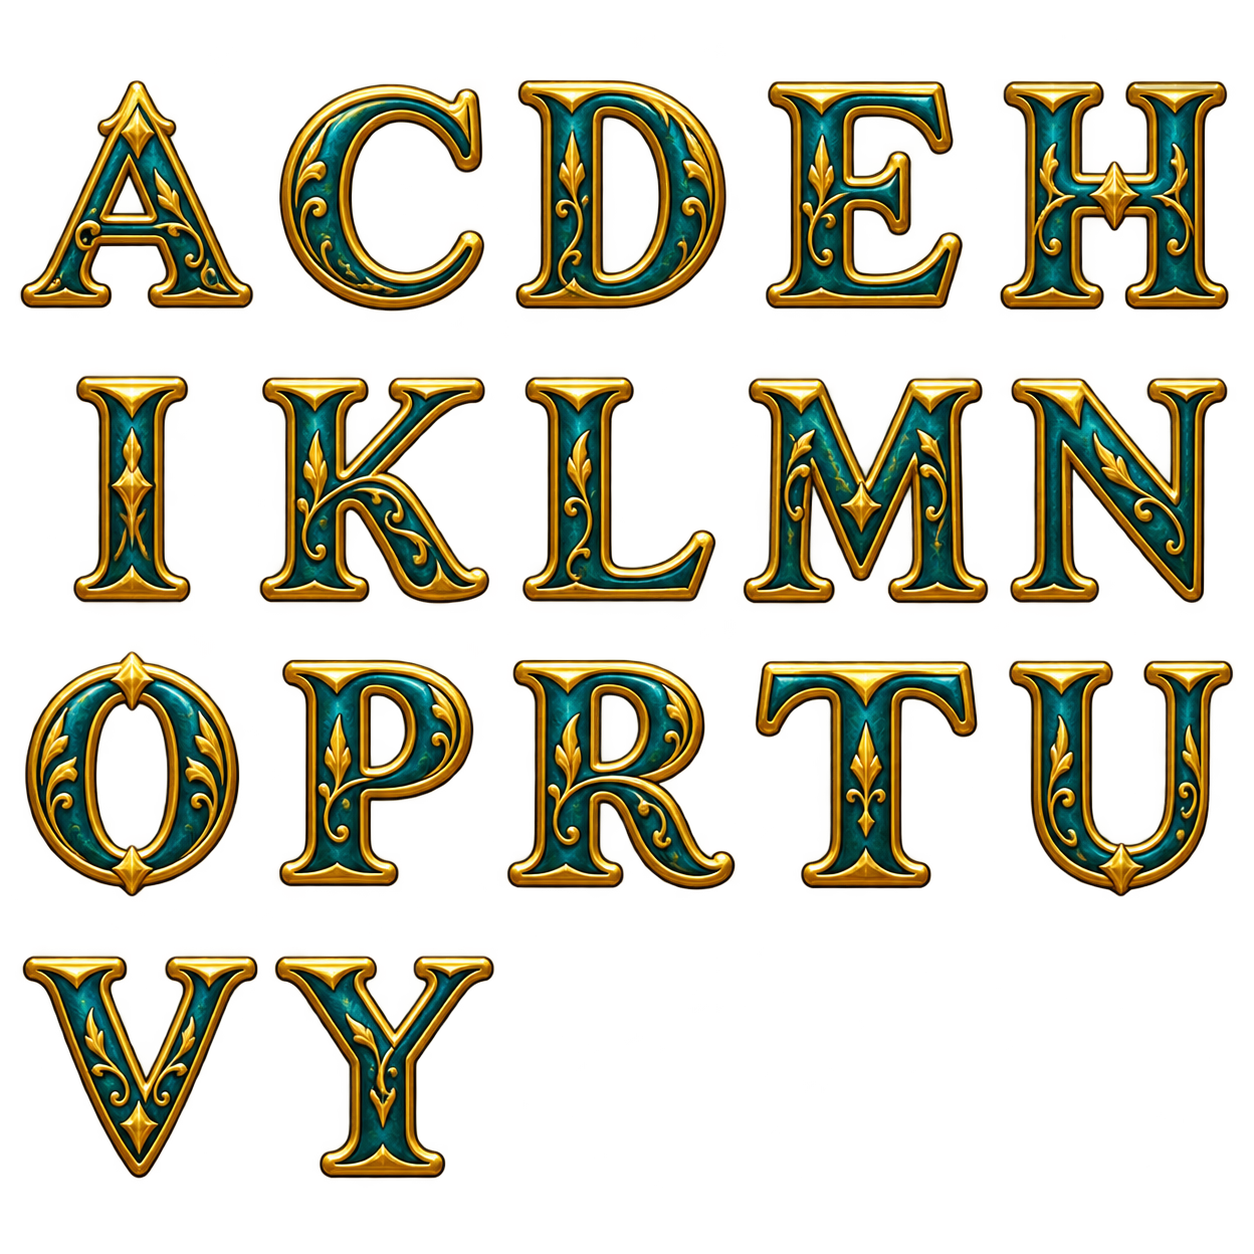
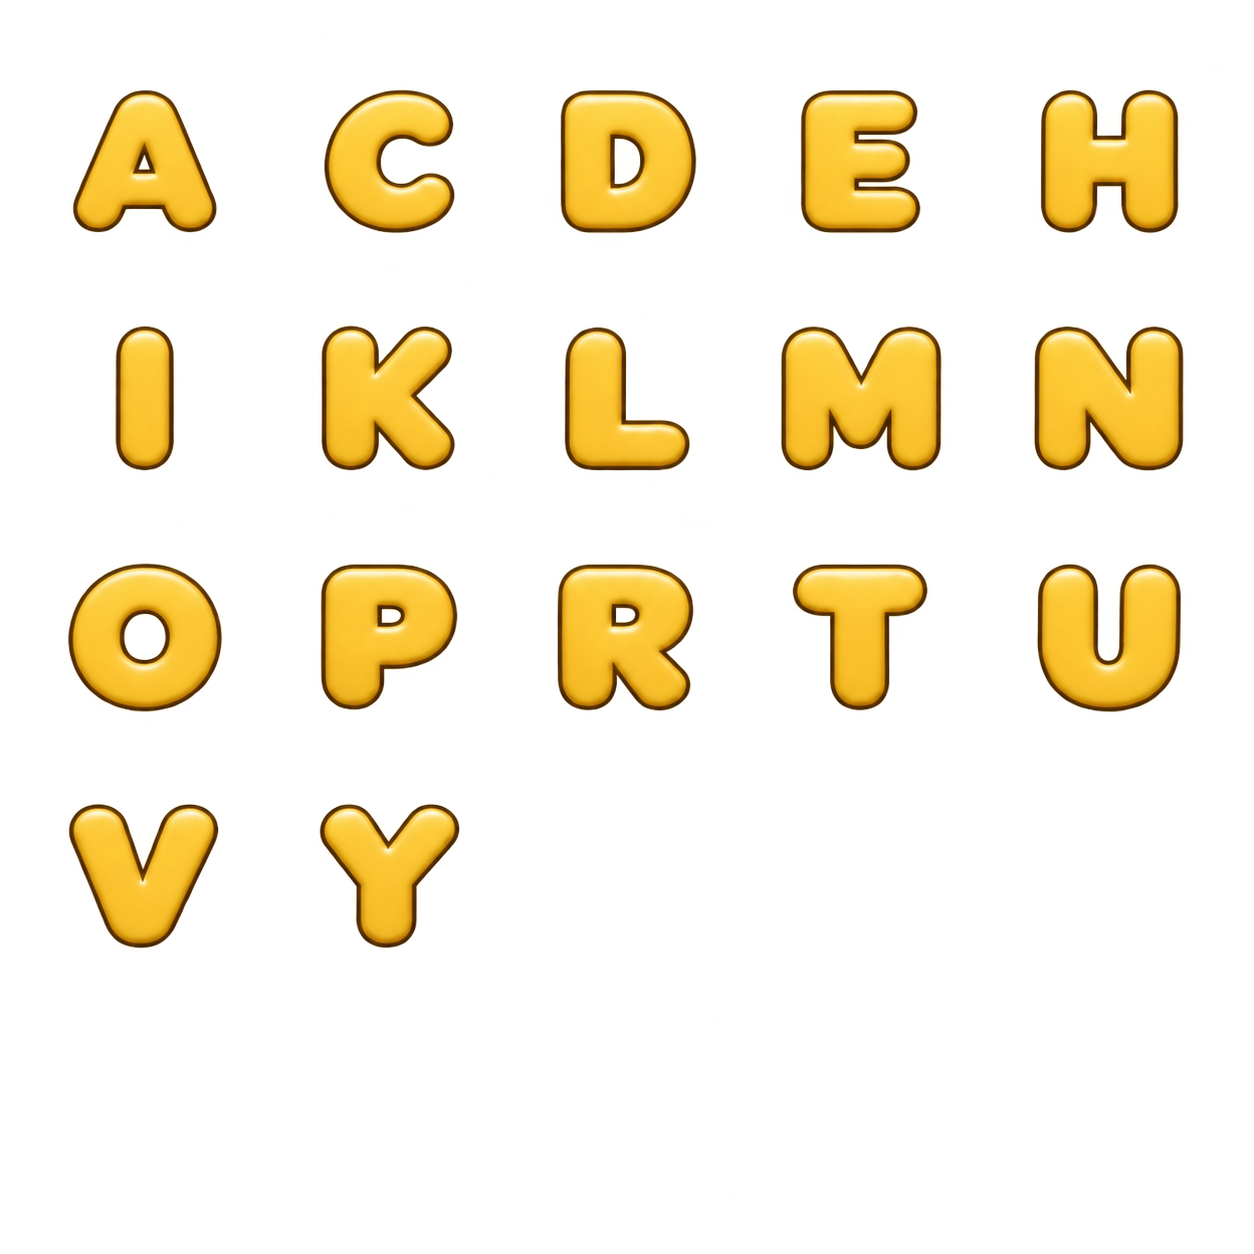
feat(letters): replace ornate glyphs with readable rounded gold artwork

diff --git a/styles/liveops.css b/styles/liveops.css
@@ -206,7 +206,7 @@ html .liveops-page .liveops-surface .tab-button.liveops__wheel-info { position:a
 html .liveops-page .liveops-surface .liveops__set-choices button { flex:0 0 auto; width:auto; min-height:36px; margin:0; padding:6px 8px; border-radius:8px; font-size:10px; white-space:nowrap; }
 html .liveops-page .liveops-surface .liveops__set-choices button[aria-pressed="true"] { color:var(--lo-claim-ink); text-shadow:none; background:linear-gradient(var(--lo-claim-top),var(--lo-claim-bottom)); }
 .liveops-surface .liveops__letter-slots { display:flex; justify-content:center; gap:3px; margin:8px 0 12px; font-size:clamp(13px,3.9vw,22px); }
-.liveops-surface .liveops__letter-slot { display:grid; place-items:center; width:1.55em; min-width:1.55em; height:1.55em; padding:0; border:0; border-radius:0; background:transparent; box-shadow:none; opacity:.3; filter:grayscale(.7); }
+.liveops-surface .liveops__letter-slot { display:grid; place-items:center; width:1.55em; min-width:1.55em; height:1.55em; padding:0; border:0; border-radius:0; background:transparent; box-shadow:none; opacity:.62; filter:grayscale(1); }
 .liveops-surface .liveops__letter-slot[data-filled="true"] { background:transparent; box-shadow:none; opacity:1; filter:none; }
 .liveops-surface .liveops__letter-slot[data-space="true"] { flex-basis:100%; height:0; min-width:0; border:0; box-shadow:none; }
 .liveops-surface .liveops__letter-mini .liveops__letter-slots { flex-wrap:nowrap; gap:1px; margin:0; }
@@ -215,7 +215,7 @@ html .liveops-page .liveops-surface .liveops__set-choices button[aria-pressed="t
 .liveops__inventory > h3 { margin:0 0 8px; text-align:center; font-size:15px; color:var(--lo-gold); }
 html .liveops-page .liveops-surface .liveops__letter-grid > button.tab-button { position:relative; display:grid; grid-template-columns:minmax(0,1fr); place-items:center; aspect-ratio:1; min-width:0; min-height:44px; padding:2px; border:2px solid var(--lo-task-line); border-radius:8px; background:linear-gradient(145deg,var(--lo-task),color-mix(in srgb,var(--lo-task) 74%,var(--lo-line))); color:var(--lo-task-ink); text-shadow:0 1px #fff8; box-shadow:inset 0 0 0 2px #fff3,0 2px 0 #0004; }
 html .liveops-page .liveops-surface .liveops__letter-grid > button[aria-pressed='true'] { outline:2px solid var(--lo-gold); outline-offset:1px; }
-.liveops__letter-art { display:block; width:100%; height:100%; background-image:image-set('/assets/rewards/letters/letters-128.webp' 1x,'/assets/rewards/letters/letters-256.webp' 2x); background-size:500% 400%; background-repeat:no-repeat; }
+.liveops__letter-art { display:block; width:100%; height:100%; background-image:image-set('/assets/rewards/letters/letters-v2-128.webp' 1x,'/assets/rewards/letters/letters-v2-256.webp' 2x); background-size:500% 400%; background-repeat:no-repeat; }
 .liveops__letter-glyph { width:32px; min-width:0; max-width:100%; height:auto; aspect-ratio:1; }
 .liveops > [hidden] { display:none; }
 .liveops__letter-count { position:absolute; bottom:-2px; right:-2px; padding:0 4px; border:1px solid var(--lo-line); border-radius:10px; background:var(--lo-inset); color:var(--lo-ink); font-size:11px; text-shadow:none; }

diff --git a/tests/ui/letter-art-coin-count.spec.js b/tests/ui/letter-art-coin-count.spec.js
@@ -12,7 +12,7 @@ test('wheel and letters have no redundant links; inventory and recipes use the g
    }
    const sprites=await page.locator('.liveops__letter-grid .liveops__letter-art').evaluateAll(async ns=>{
     const {LETTER_ALPHABET}=await import('/js/liveops/config.js');return ns.map((n,i)=>({background:getComputedStyle(n).backgroundImage,position:n.style.backgroundPosition,expected:`${i%5*25}% ${Math.floor(i/5)*100/3}%`,name:n.parentElement.getAttribute('aria-label'),letter:LETTER_ALPHABET[i],width:n.getBoundingClientRect().width,parent:n.parentElement.getBoundingClientRect().width}));
-   });expect(sprites).toHaveLength(17);for(const sprite of sprites){expect(sprite.background).toContain('/assets/rewards/letters/letters-128.webp');sprite.position.split(' ').forEach((n,i)=>expect(parseFloat(n)).toBeCloseTo(parseFloat(sprite.expected.split(' ')[i]),3));expect(sprite.name).toContain(`Chữ ${sprite.letter},`);expect(sprite.width).toBeLessThan(sprite.parent);}
+   });expect(sprites).toHaveLength(17);for(const sprite of sprites){expect(sprite.background).toContain('/assets/rewards/letters/letters-v2-128.webp');sprite.position.split(' ').forEach((n,i)=>expect(parseFloat(n)).toBeCloseTo(parseFloat(sprite.expected.split(' ')[i]),3));expect(sprite.name).toContain(`Chữ ${sprite.letter},`);expect(sprite.width).toBeLessThan(sprite.parent);}
    for(const label of ['MEMORY MATCH','LINK CONNECT','TRIPLE CONNECT','ADVENTURE']){await page.getByRole('tab',{name:label,exact:true}).click();await expect(page.locator('.liveops__recipe-word .liveops__letter-art')).toHaveCount(label.replaceAll(' ','').length);await expect(page.locator('.liveops__recipe-reward .liveops__chest-art')).toHaveCount(1);
     const row=await page.locator('.liveops__recipe-word .liveops__letter-art').evaluateAll(ns=>ns.map(n=>{const r=n.getBoundingClientRect();return {top:r.top,left:r.left,right:r.right};}));expect(new Set(row.map(r=>Math.round(r.top))).size).toBe(1);expect(row[0].left).toBeGreaterThanOrEqual(0);expect(row.at(-1).right).toBeLessThanOrEqual(viewport.width);await expect(page.locator('.liveops__recipe progress')).toHaveCount(0);
    }

diff --git a/styles/letter-drop-feedback.css b/styles/letter-drop-feedback.css
@@ -1,5 +1,5 @@
 .letter-drop-feedback { --letter-center-size: clamp(56px, 17vw, 80px); position: fixed; inset: 0; z-index: 1250; pointer-events: none; contain: layout style; }
 .letter-drop-feedback__entry { position: absolute; left: calc(50% + var(--letter-slot) * (var(--letter-center-size) + 4px)); top: 40%; width: var(--letter-center-size); transform: translate(-50%, -50%); text-align: center; pointer-events: none; }
-.letter-drop-feedback__sprite { display: block; width: var(--letter-center-size); height: var(--letter-center-size); background-image: image-set('/assets/rewards/letters/letters-128.webp' 1x, '/assets/rewards/letters/letters-256.webp' 2x); background-size: 500% 400%; background-repeat: no-repeat; }
+.letter-drop-feedback__sprite { display: block; width: var(--letter-center-size); height: var(--letter-center-size); background-image: image-set('/assets/rewards/letters/letters-v2-128.webp' 1x, '/assets/rewards/letters/letters-v2-256.webp' 2x); background-size: 500% 400%; background-repeat: no-repeat; }
 .letter-drop-feedback__label { position: absolute; bottom: calc(100% + 4px); left: 0; width: 100%; box-sizing: border-box; padding: 3px 4px; border-radius: 6px; color: #fff7db; background: #082e36ed; font-size: 11px; font-weight: 700; line-height: 1.35; }
 @media (prefers-reduced-motion: reduce) { .letter-drop-feedback__sprite { transform: none; } }

diff --git a/styles/liveops-reward-feedback.css b/styles/liveops-reward-feedback.css
@@ -2,5 +2,5 @@
 .liveops-reward-feedback__particle { position:absolute; left:0; top:0; width:36px; height:36px; color:var(--lo-gold,var(--ui-gold)); will-change:transform,opacity; }
 .liveops-reward-feedback__particle > .ui-icon { width:100%; height:100%; }
 .liveops-reward-feedback__particle > img { display:block; width:100%; height:100%; object-fit:contain; }
-.liveops-reward-feedback__letter { display:block; width:100%; height:100%; background-image:image-set('/assets/rewards/letters/letters-128.webp' 1x,'/assets/rewards/letters/letters-256.webp' 2x); background-size:500% 400%; background-repeat:no-repeat; }
+.liveops-reward-feedback__letter { display:block; width:100%; height:100%; background-image:image-set('/assets/rewards/letters/letters-v2-128.webp' 1x,'/assets/rewards/letters/letters-v2-256.webp' 2x); background-size:500% 400%; background-repeat:no-repeat; }
 .liveops-reward-feedback__toast { position:absolute; left:50%; top:50%; transform:translate(-50%,-50%); box-sizing:border-box; max-width:calc(100vw - 24px); width:max-content; padding:10px 16px; border:1px solid var(--lo-line,var(--ui-line)); border-radius:12px; background:var(--lo-panel,var(--ui-surface)); color:var(--lo-ink,var(--ui-ink)); box-shadow:0 3px 12px #0003; font-size:12px; font-weight:700; line-height:1.4; white-space:nowrap; text-overflow:ellipsis; overflow:hidden; }

diff --git a/styles/letter-crafting.css b/styles/letter-crafting.css
@@ -36,7 +36,7 @@
 .letter-forge__palette { grid-area:palette; display:grid; grid-template-columns:repeat(6,minmax(0,1fr)); gap:4px; justify-items:center; width:100%; max-width:288px; margin-inline:auto; }
 .letter-forge__palette[hidden] { display:none; }
 .letter-forge__tile { position:relative; display:grid; place-items:center; box-sizing:border-box; width:100%; max-width:46px; min-width:0; min-height:44px; aspect-ratio:1; margin:0; padding:2px; border:1px solid var(--ui-line); border-radius:8px; background:var(--ui-raised); cursor:pointer; }
-.letter-forge__tile[data-empty='true'] { opacity:.35; }
+.letter-forge__tile[data-empty='true'] { opacity:.6; }
 .letter-forge__count { position:absolute; right:0; bottom:0; padding:0 3px; border:1px solid var(--ui-line); border-radius:8px; background:var(--ui-inset); color:var(--ui-ink); font-size:10px; line-height:1.3; }
 .letter-forge__status { grid-area:status; margin:0; font-size:12px; line-height:1.35; text-align:center; color:var(--ui-muted); }
 .letter-forge__status:empty { display:none; }

diff --git a/design/rewards-letters/drop/README.md b/design/rewards-letters/drop/README.md
@@ -1,0 +1,9 @@
+# Bộ chữ mẫu 02 — 08/11/2026
+
+- Chủ dự án chọn mẫu 02 trong bảng 12 thiết kế: chữ vàng sáng, sans-serif đậm bo tròn, viền đồng mảnh và nổi nhẹ; không hoa văn, không nền quân chữ.
+- Giữ đúng 17 ký tự `A C D E H I K L M N O P R T U V Y`, thứ tự và vị trí sprite như trước. Nguồn `letters-source.png` tạo bằng image_gen tích hợp; prompt và lần sửa ảnh nằm trong `source.json`.
+- Ảnh nguồn dùng ô vuông 5×5; generator kiểm tra biên từng chữ rồi ghép thành atlas chạy 5×4. Chiều cao chữ bằng nhau, giữ đúng tỉ lệ của chữ hẹp như I.
+- Chạy `node scripts/prepare-letter-drop-atlas.mjs` với module `sharp` có sẵn; có thể chỉ định đường dẫn module qua `UI_SKIN_SHARP_MODULE`.
+- Hai file chạy là `letters-v2-128.webp` (87.148 byte) và `letters-v2-256.webp` (217.204 byte). Tên v2 tránh dùng lại cache ảnh cũ trên Hosting. Không giữ atlas cũ trong bundle; bản cũ lưu cục bộ ở `runtime/art-source/letters-legacy/`.
+- Các nơi dùng chung: kho chữ, bốn bộ sưu tập, popup thao tác/ghép/bán, chữ rơi khi chơi và hiệu ứng nhận thưởng. Chữ chưa có vẫn đủ sáng để đọc, chữ đã có giữ màu vàng đầy đủ. Không đổi kích thước bố cục, luật chơi, ID, API hoặc dữ liệu lưu.
+- Kiểm tra: 17 chữ đủ, ba ô cuối atlas trống, alpha giữ nguyên, chiều cao phần chữ ở atlas 256 nằm trong 213–215px; 7 bài UI mục tiêu đạt trên năm skin, màn hình 320–1024px và hai chế độ chuyển động. JavaScript/CSS/diff/build đạt; chưa deploy/APK hoặc đo FPS điện thoại thật.

diff --git a/CONTEXT.md b/CONTEXT.md
@@ -55,6 +55,8 @@
 
 ## Chữ, rương và thưởng gameplay
 
+- Bộ chữ mẫu 02 — 08/11: đã thay 17 glyph bằng vàng sáng nét dày bo tròn, viền đồng mảnh; đồng bộ kho/bốn bộ/ghép/bán và nhận chữ trong ba trò. Atlas `letters-v2-128.webp` + `letters-v2-256.webp` tổng304.352byte, tên mới tránh cache immutable; đã bỏ atlas cũ khỏi bundle. Tăng độ rõ chữ chưa có, giữ bố cục/cỡ ô và save/luật/API. Nguồn/prompt/generator tại `design/rewards-letters/drop/` và `scripts/prepare-letter-drop-atlas.mjs`. 7UI mục tiêu + JS/CSS/diff/build đạt; không deploy/APK.
+
 - UI chữ/rương 07/11: bốn bộ dùng cùng cỡ ảnh chữ theo TRIPLE CONNECT, một hàng cạnh rương, không tên quà/nút Đổi quà. Rương khóa khi thiếu chữ; đủ bộ bấm rương đổi chữ một lần rồi mở chọn trò nhận hỗ trợ. Đóng màn chọn giữ rương trong kho; tiếp tục dùng giao dịch đổi/mở hiện hữu, không đổi save/schema/luật thưởng.
 - Ảnh rương sự kiện/kho: 12 hình nhận diện riêng × đóng/mở = 24 WebP trong suốt 256×256 (459.428 byte), dùng chung theo loại trên mọi skin; đã thay bản SVG thử. Bốn mẫu dự phòng Băng/Lửa/Rừng/Thiên văn ở `design/chests/reserve`, không vào bundle. Xem `design/chests/README.md`; nguồn/prompt ở `runtime/art-source/chests`. Rương cấp bậc bản đồ giữ bộ ảnh riêng. 56 bài UI liên quan đã đạt qua lượt chính và chạy lại 9 bài sau sửa cuối; JS/CSS/diff/build đạt. Không deploy/APK, chưa đo điện thoại thật.
 
